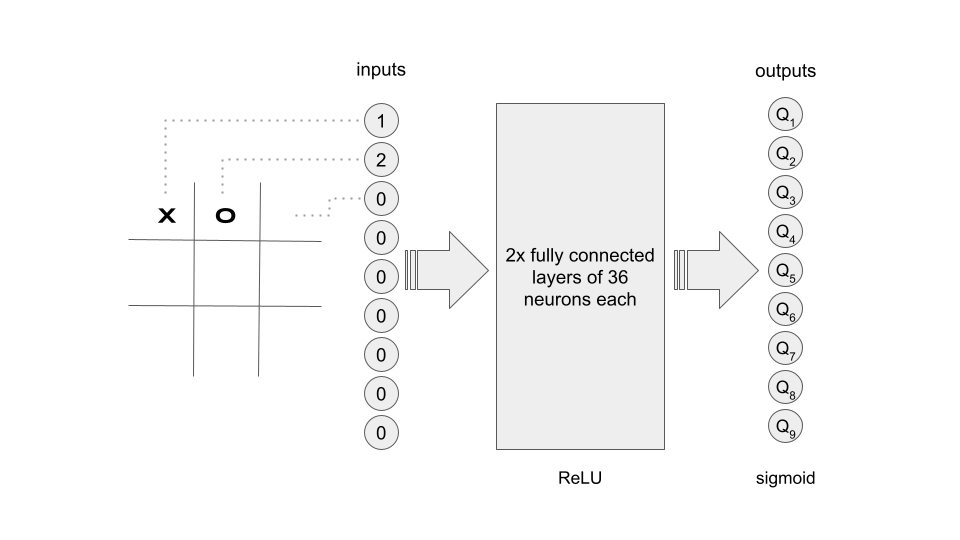
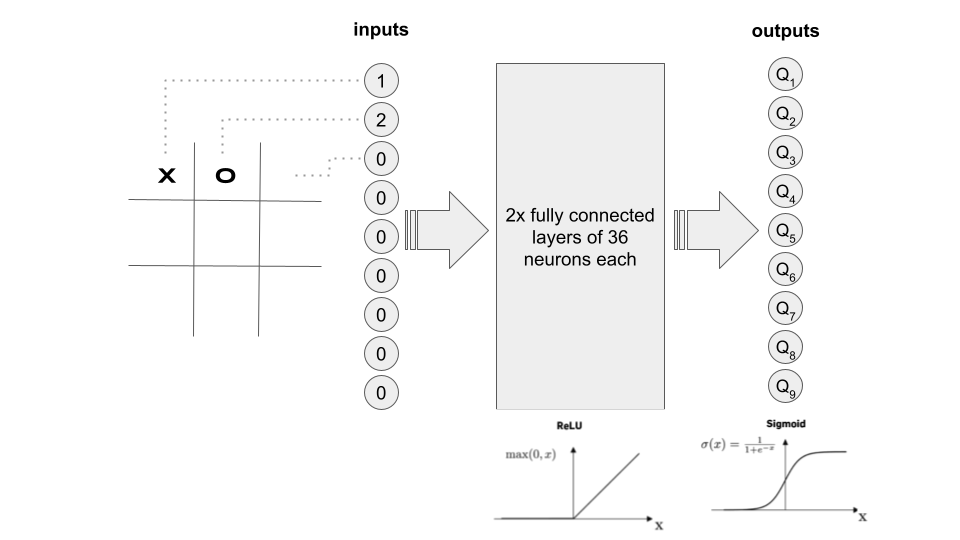
Added linear activation

diff --git a/entities/Neural_Network.py b/entities/Neural_Network.py
@@ -5,33 +5,23 @@ import utilities.constants as c
 
 
 def activation(x, output=False):
-    if output:
-        if c.OUTPUT_ACTIVATION in ['sigmoid', 'Sigmoid', 'SIGMOID']:
-            return 1 / (1 + np.exp(-x))
-        elif c.OUTPUT_ACTIVATION in ['ReLU', 'relu', 'RELU']:
-            return x * (x > 0)
-    else:
-        if c.ACTIVATION in ['sigmoid', 'Sigmoid', 'SIGMOID']:
-            return 1 / (1 + np.exp(-x))
-        elif c.ACTIVATION in ['ReLU', 'relu', 'RELU']:
-            return x * (x > 0)
+    activation_function = c.OUTPUT_ACTIVATION if output else c.ACTIVATION
+    if activation_function in ['sigmoid', 'Sigmoid', 'SIGMOID']:
+        return 1 / (1 + np.exp(-x))
+    elif activation_function in ['ReLU', 'relu', 'RELU']:
+        return x * (x > 0)
+    elif activation_function in ['linear', 'Linear', 'line']:
+        return x
 
 
 def d_activation(x, output=False):
-    if output:
-        if c.OUTPUT_ACTIVATION in ['sigmoid', 'Sigmoid', 'SIGMOID']:
-            return x * (1 - x)
-        elif c.OUTPUT_ACTIVATION in ['ReLU', 'relu', 'RELU']:
-            return 1 * (x > 0)
-        elif c.OUTPUT_ACTIVATION in ['linear', 'Linear', 'line']:
-            return x
-    else:
-        if c.ACTIVATION in ['sigmoid', 'Sigmoid', 'SIGMOID']:
-            return x * (1 - x)
-        elif c.ACTIVATION in ['ReLU', 'relu', 'RELU']:
-            return 1 * (x > 0)
-        elif c.ACTIVATION in ['linear', 'Linear', 'line']:
-            return 1
+    activation_function = c.OUTPUT_ACTIVATION if output else c.ACTIVATION
+    if activation_function in ['sigmoid', 'Sigmoid', 'SIGMOID']:
+        return x * (1 - x)
+    elif activation_function in ['ReLU', 'relu', 'RELU']:
+        return 1 * (x > 0)
+    elif activation_function in ['linear', 'Linear', 'line']:
+        return np.ones_like(x)
 
 
 class NeuralNetwork:
@@ -182,8 +172,9 @@ class NeuralNetwork:
         self.bias_gradients[0] += d_error_matrix[0]
 
     def apply_gradients(self):
-        self.weights -= self.learning_rate * np.array(self.gradients, dtype=object)
-        self.bias -= self.learning_rate * np.array(self.bias_gradients, dtype=object)
+        for idx, weight_col in enumerate(self.weights):
+            weight_col -= self.learning_rate * np.array(self.gradients[idx])
+            self.bias[idx] -= self.learning_rate * np.array(self.bias_gradients[idx])
         self.gradient_zeros()
 
     def RL_train(self, replay_memory, target_network, experience):

diff --git a/utilities/constants.py b/utilities/constants.py
@@ -3,32 +3,32 @@ HEIGHT = 480
 FPS = 120
 RANDOM_AI = True
 NNET_PLAYER = 2
-VISUAL = True
+VISUAL = False
 
 # Neural Network parameters
 INPUTS = 9
 HIDDEN_LAYERS = [36, 36]
 OUTPUTS = 9
 ACTIVATION = 'ReLU'
-OUTPUT_ACTIVATION = 'Sigmoid'
+OUTPUT_ACTIVATION = 'Linear'
 
 # Reward Policy
-REWARD_BAD_CHOICE = -500
+REWARD_BAD_CHOICE = -100
 REWARD_LOST_GAME = -500
 REWARD_WON_GAME = 500
 REWARD_TIE_GAME = 100
 
-MEMORY_CAPACITY = 250000
+MEMORY_CAPACITY = 100000
 BATCH_SIZE = 64
 GAMMA = 0.99
 TARGET_UPDATE = 10
-LEARNING_RATE = 0.01
-NUM_EPISODES = 100000
+LEARNING_RATE = 0.001
+NUM_EPISODES = 1000
 
 # epsilon greedy strategy
 eSTART = 1
 eEND = 0.01
-eDECAY = 0.00001
+eDECAY = 0.0001
 # eSTART = 0
 # eEND = 0
 # eDECAY = 0

diff --git a/ML_TicTacToe.py b/ML_TicTacToe.py
@@ -131,6 +131,7 @@ def game_over_screen(winner):
 
 def silent_training(game, agent, replay_memory):
     total_losses = []
+    loss = 0
     total_illegal_moves = []
     wins = 0
     looses = 0
@@ -169,7 +170,7 @@ def silent_training(game, agent, replay_memory):
             agent.TargetNetwork.copy_from(agent.PolicyNetwork)
         print('\nEpisode: ', i_episode,
               ';Illegal Moves: ', illegal_moves,
-              ';Replay Memory Size: ', len(replay_memory.memory))
+              ';Loss: ', loss)
         total_illegal_moves.append(illegal_moves)
 
     print('Total experiences recollected: ', len(replay_memory.memory))

diff --git a/README.md b/README.md
@@ -44,6 +44,13 @@ After this second round of 100,000 games, I can see that the loss function actua
 
 As you can see in the chart, the calculated loss not even plateaued, but it seemed to increase a bit over time, which tells me the model is not learning anymore. This was confirmed by the win rate decreasing with respect of the previous round to a meek 46.4% that looks no better than a random player.
 
-After giving it some thought and not getting the results I wanted, I decided to change the output activation function to linear, since the output is supposed to be a Q value, and not a probability of action. After this change the results were:
+After not getting the results I wanted, I decided to change the output activation function to linear, since the output is supposed to be a Q value, and not a probability of an action. After this change the results were:
+
+<img src='Loss_function_and_Illegal_moves4.png'></img>
+<center>Wins: 47.60% Losses: 39% Ties: 13.4%</center>
+
+Initially I tested with only 1000 games to see if the new activation function was working, the loss function appears to be decreasing, however it reached a plateau around 1, hence still not learning as expected. I came across a technique by Brad Kenstler, Carl Thome and Jeremy Jordan (https://github.com/bckenstler/CLR) called Cyclical Learning Rate, that appears to solve some cases of stagnating loss functions in this type of networks. So I gave it a go using the Triangle 1 model.
+
+
 
 
